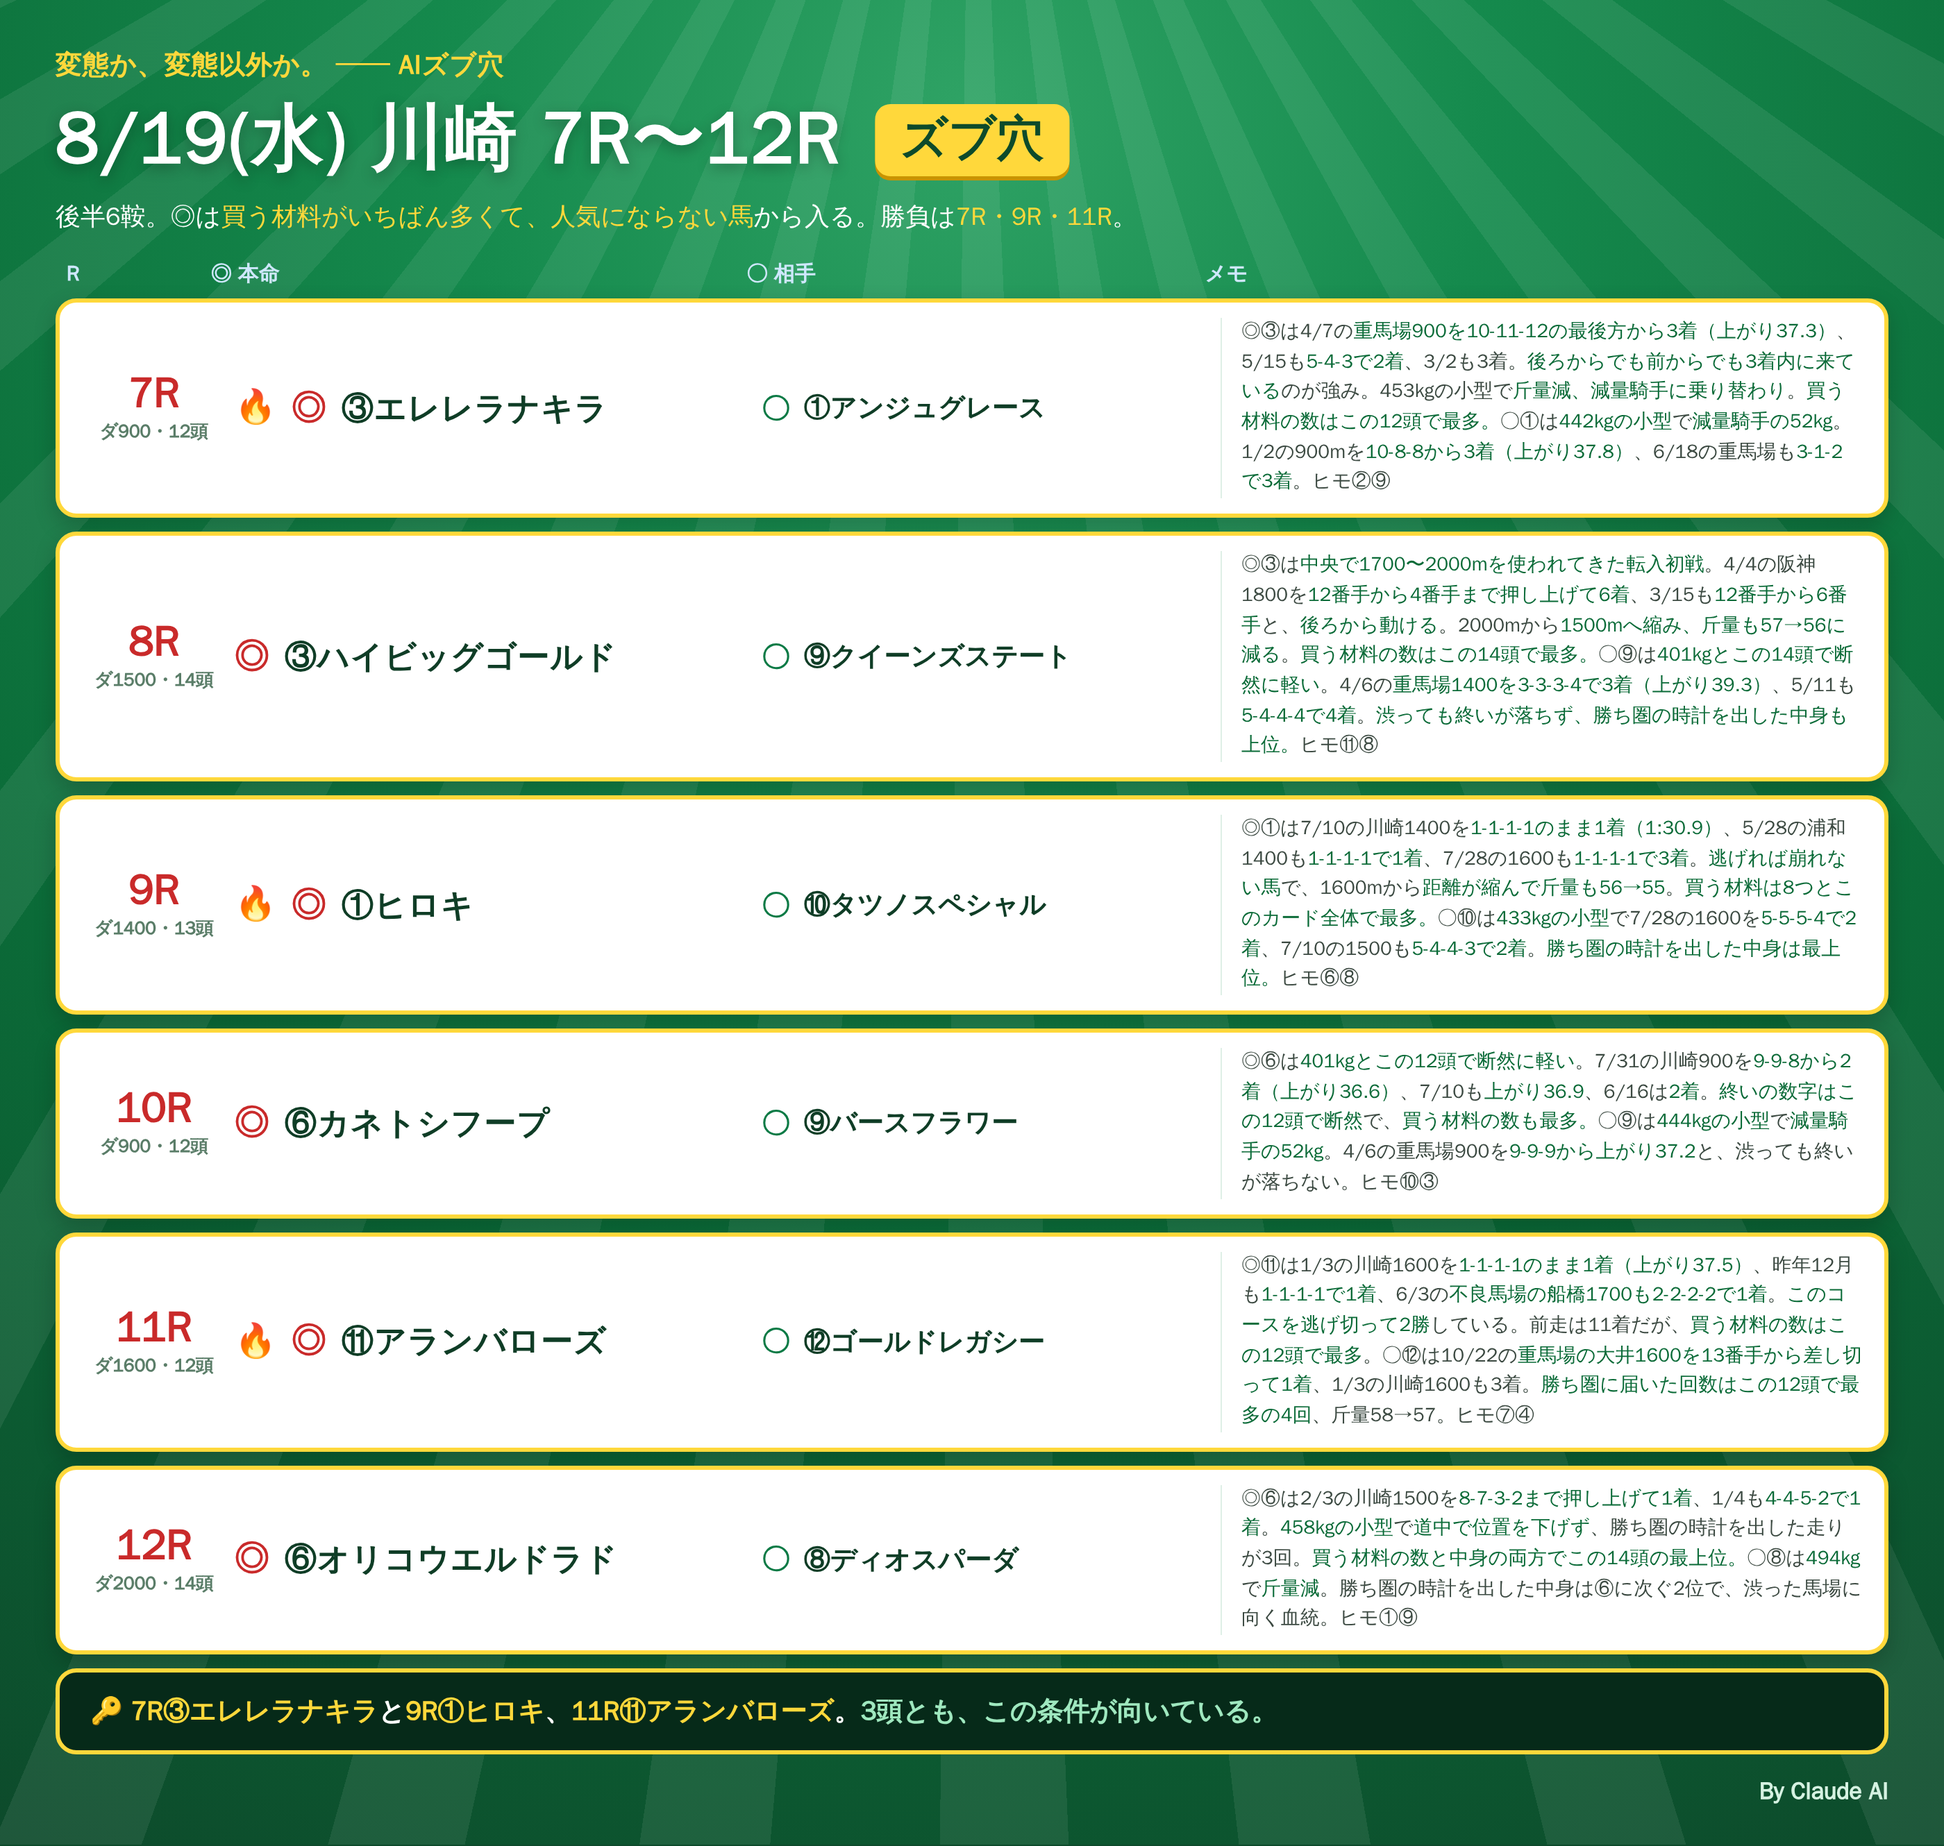
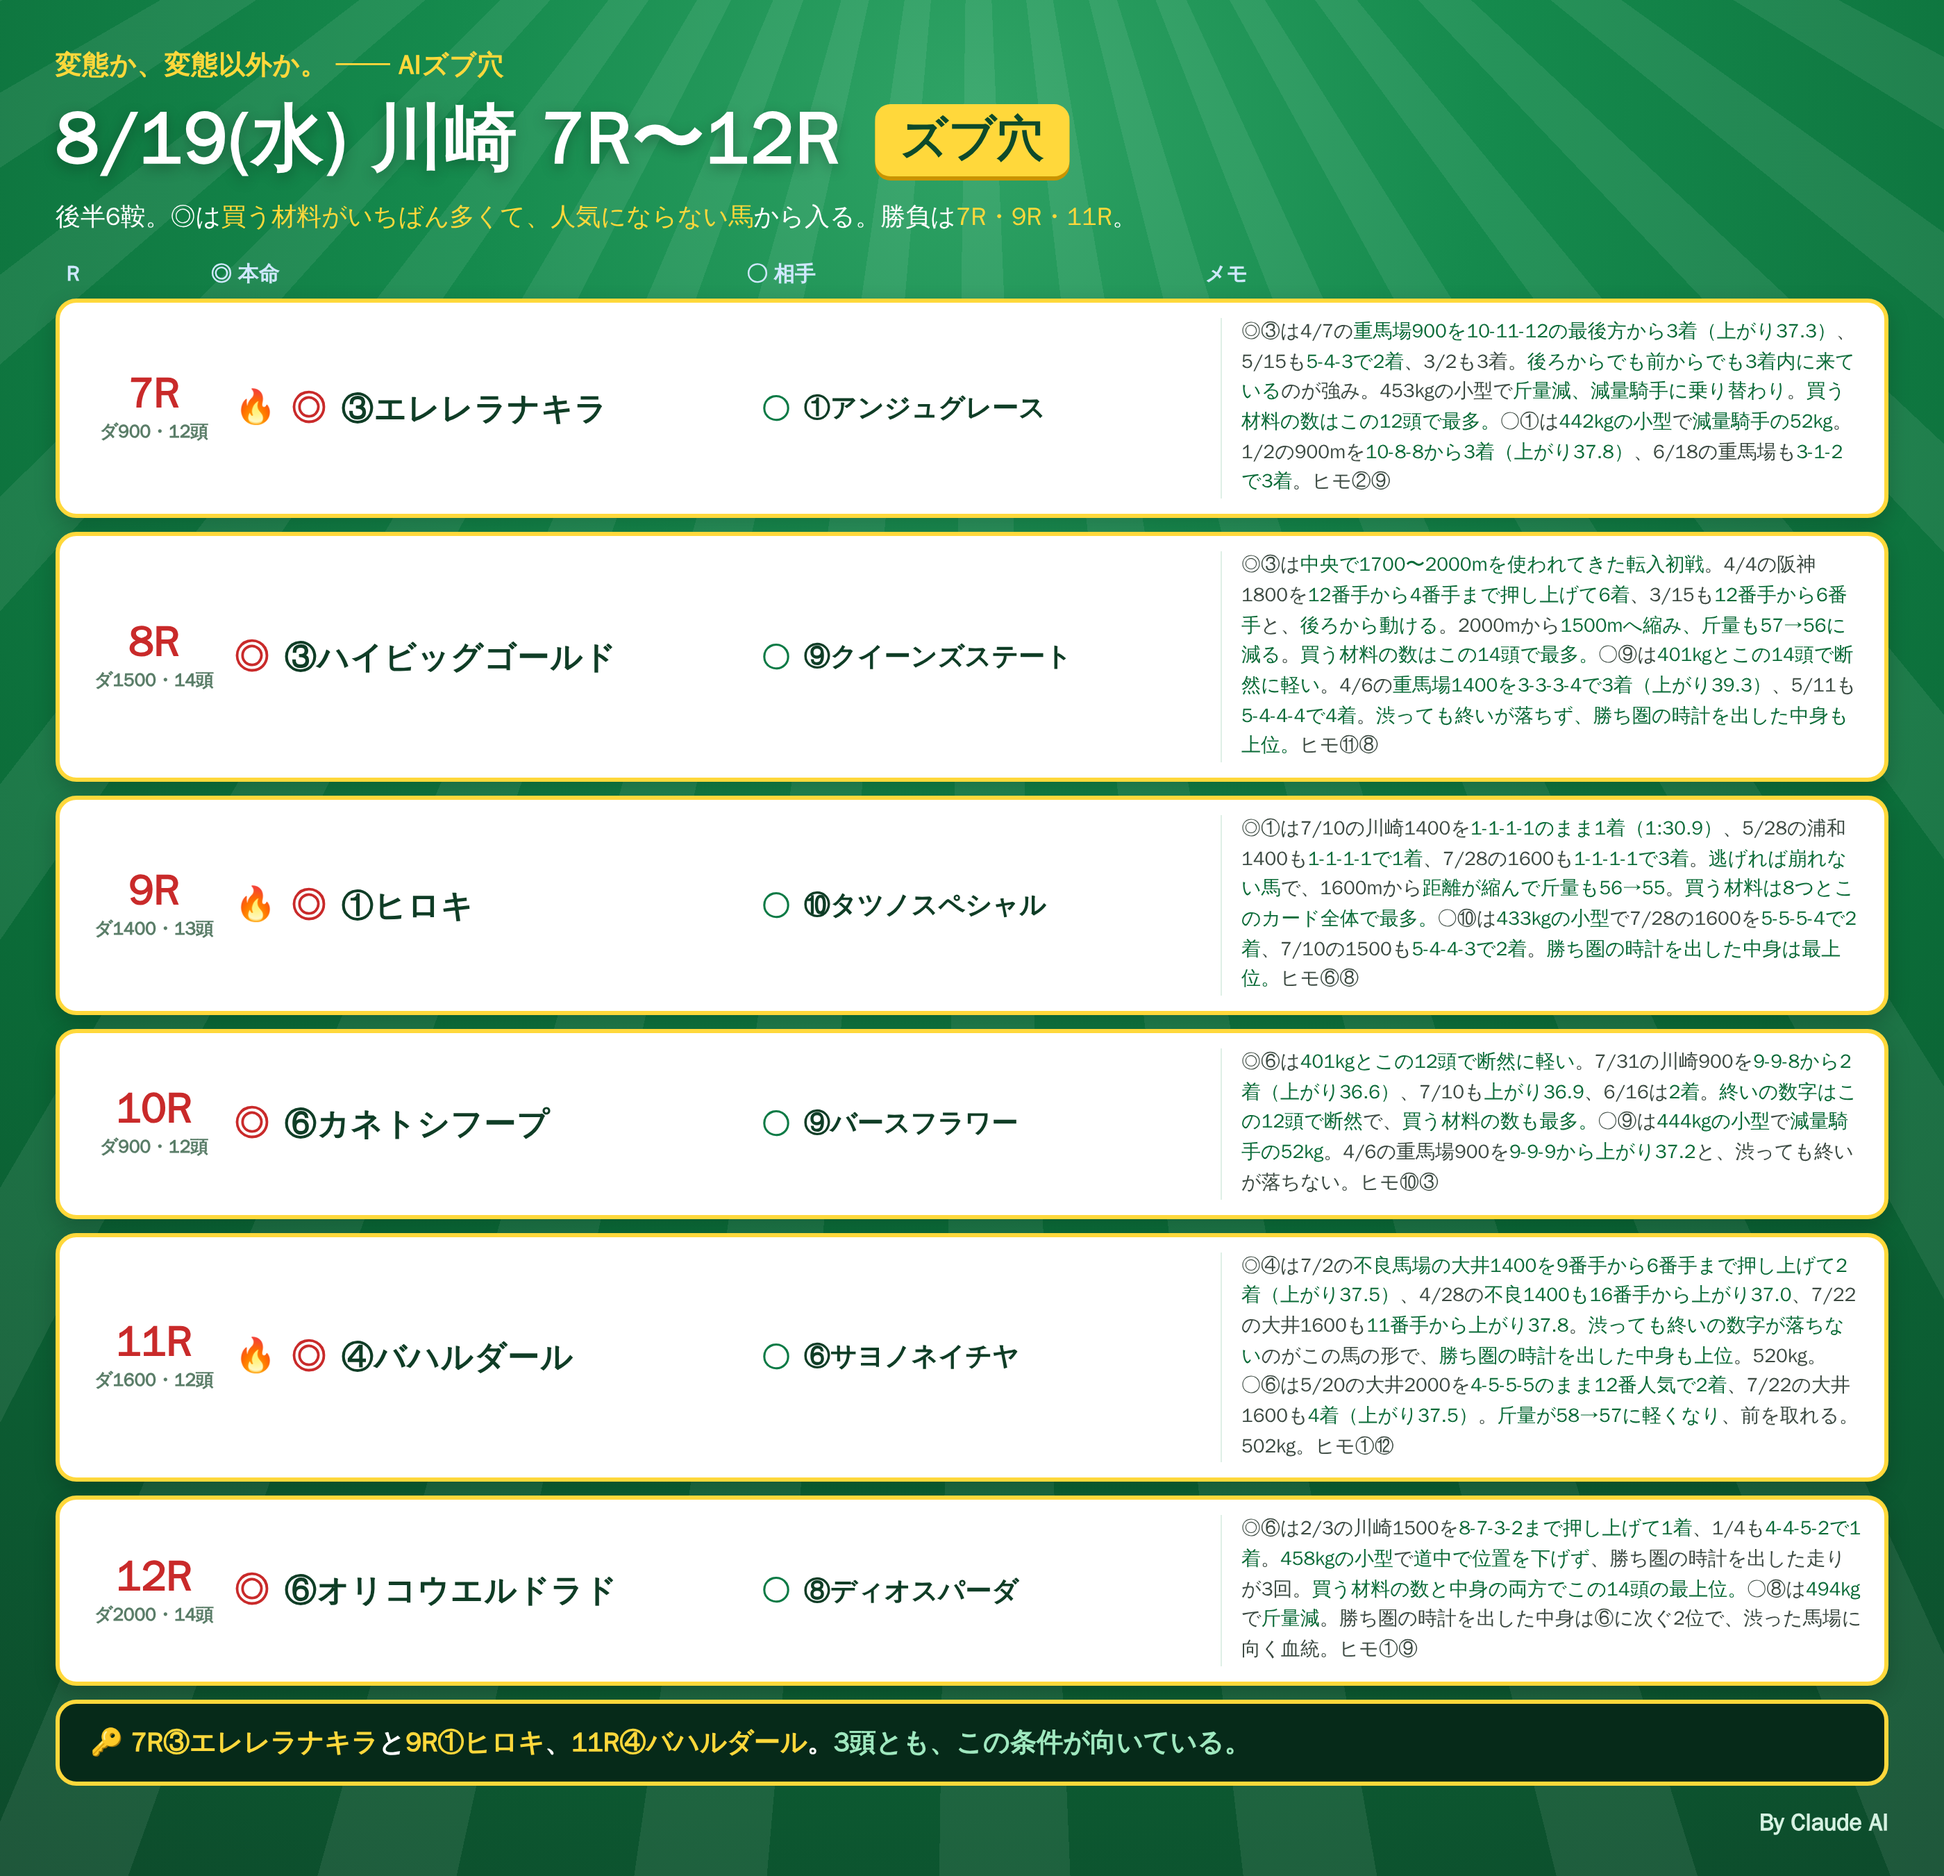
notes: 8/19 川崎 11R ◎④バハルダール ○⑥サヨノネイチヤ に変更（両方式）
Claude-Session: https://claude.ai/code/session_01RoHscZkr96FNaxQWvUqgEw

diff --git a/notes/live/2026-08-19/kawasaki_7_12.html b/notes/live/2026-08-19/kawasaki_7_12.html
@@ -81,9 +81,9 @@
 
   <div class="row">
     <div class="rN"><div class="n">11R</div><div class="d">ダ1600・12頭</div></div>
-    <div class="hm"><span class="fire">🔥</span><span class="mk">◎</span><span class="nm">①ヴィクトゥーラ</span></div>
-    <div class="at"><span class="mk2">○</span><span class="nm2">⑫ゴールドレガシー</span></div>
-    <div class="memo"><b class='r'>ハナを主張しうる馬が5頭。</b>重賞で前が5頭競れば<b>間違いなく流れる</b>ので、<b>浮くのは中団から後ろ。</b>◎①は前走7/29の川崎1600を<b>9番手から4角先頭まで押し上げて5着</b>、2/12の船橋1600は<b>13番手から2着（上がり37.8）</b>、3/10も2着。<b>勝ち圏の時計を出した中身はこの12頭で最高値</b>で、<b>斤量が57→56に軽くなる</b>。483kg。○⑫は10/22の<b>重馬場の大井1600を13番手から差し切って1着</b>、1/3の川崎1600も3着。<b>勝ち圏に届いた回数はこの12頭で最多の4回</b>、斤量58→57。ヒモ⑦④</div>
+    <div class="hm"><span class="fire">🔥</span><span class="mk">◎</span><span class="nm">④バハルダール</span></div>
+    <div class="at"><span class="mk2">○</span><span class="nm2">⑥サヨノネイチヤ</span></div>
+    <div class="memo"><b class='r'>ハナを主張しうる馬が5頭。</b>重賞で前が5頭競れば<b>間違いなく流れる</b>ので、<b>浮くのは後ろから終いを使える馬。</b>◎④は7/2の<b>不良馬場の大井1400を9番手から6番手まで押し上げて2着（上がり37.5）</b>、4/28の<b>不良1400も16番手から上がり37.0</b>、7/22の大井1600も<b>11番手から上がり37.8</b>。<b>渋っても終いの数字が落ちず、最後方からでも脚を使える。</b>520kg。○⑥は5/20の大井2000を<b>4-5-5-5のまま12番人気で2着</b>、7/22の大井1600も<b>4着（上がり37.5）</b>。<b>勝ち圏の時計を出した中身はこの12頭で上位</b>で、<b>斤量が58→57に軽くなる</b>。502kg。ヒモ①⑫</div>
   </div>
 
   <div class="row">
@@ -93,7 +93,7 @@
     <div class="memo"><b class='r'>ハナを主張しうる馬が5頭。</b>2000mで前が5頭競れば消耗するので、<b>浮くのは中団で我慢できる馬。</b>◎⑥は2/3の川崎1500を<b>8-7-3-2まで押し上げて1着</b>、1/4も<b>4-4-5-2で1着</b>。<b>458kgの小型</b>で<b>道中で位置を下げず</b>、勝ち圏の時計を出した走りが3回。3歳でこの相手なら伸びしろもある。○⑤は1/2の川崎2000を<b>4-4-5-5のまま1着</b>、3/2も<b>4角2番手まで押し上げて2着</b>、2/6も3着。<b>この距離の中身はこの14頭で最高値。</b>ヒモ⑩⑨</div>
   </div>
 
-  <div class="foot">🔑 <span class="y">7R③エレレラナキラ</span>と<span class="y">9R⑩タツノスペシャル</span>、<span class="y">11R①ヴィクトゥーラ</span>。<span class="c">7Rは12頭中8頭が前を主張する、今開催で最も極端な消耗戦。</span></div>
+  <div class="foot">🔑 <span class="y">7R③エレレラナキラ</span>と<span class="y">9R⑩タツノスペシャル</span>、<span class="y">11R④バハルダール</span>。<span class="c">7Rは12頭中8頭が前を主張する、今開催で最も極端な消耗戦。</span></div>
   <div class="sig">By Claude AI</div>
 </div></div>
 </body></html>

diff --git a/notes/live/2026-08-19/kawasaki_7_12_classic.html b/notes/live/2026-08-19/kawasaki_7_12_classic.html
@@ -82,9 +82,9 @@
 
   <div class="row">
     <div class="rN"><div class="n">11R</div><div class="d">ダ1600・12頭</div></div>
-    <div class="hm"><span class="fire">🔥</span><span class="mk">◎</span><span class="nm">⑪アランバローズ</span></div>
-    <div class="at"><span class="mk2">○</span><span class="nm2">⑫ゴールドレガシー</span></div>
-    <div class="memo">◎⑪は1/3の川崎1600を<b>1-1-1-1のまま1着（上がり37.5）</b>、昨年12月も<b>1-1-1-1で1着</b>、6/3の<b>不良馬場の船橋1700も2-2-2-2で1着</b>。<b>このコースを逃げ切って2勝</b>している。前走は11着だが、<b>買う材料の数はこの12頭で最多</b>。○⑫は10/22の<b>重馬場の大井1600を13番手から差し切って1着</b>、1/3の川崎1600も3着。<b>勝ち圏に届いた回数はこの12頭で最多の4回</b>、斤量58→57。ヒモ⑦④</div>
+    <div class="hm"><span class="fire">🔥</span><span class="mk">◎</span><span class="nm">④バハルダール</span></div>
+    <div class="at"><span class="mk2">○</span><span class="nm2">⑥サヨノネイチヤ</span></div>
+    <div class="memo">◎④は7/2の<b>不良馬場の大井1400を9番手から6番手まで押し上げて2着（上がり37.5）</b>、4/28の<b>不良1400も16番手から上がり37.0</b>、7/22の大井1600も<b>11番手から上がり37.8</b>。<b>渋っても終いの数字が落ちない</b>のがこの馬の形で、<b>勝ち圏の時計を出した中身も上位</b>。520kg。○⑥は5/20の大井2000を<b>4-5-5-5のまま12番人気で2着</b>、7/22の大井1600も<b>4着（上がり37.5）</b>。<b>斤量が58→57に軽くなり</b>、前を取れる。502kg。ヒモ①⑫</div>
   </div>
 
   <div class="row">
@@ -94,7 +94,7 @@
     <div class="memo">◎⑥は2/3の川崎1500を<b>8-7-3-2まで押し上げて1着</b>、1/4も<b>4-4-5-2で1着</b>。<b>458kgの小型</b>で<b>道中で位置を下げず</b>、勝ち圏の時計を出した走りが3回。<b>買う材料の数と中身の両方でこの14頭の最上位。</b>○⑧は<b>494kg</b>で<b>斤量減</b>。勝ち圏の時計を出した中身は⑥に次ぐ2位で、渋った馬場に向く血統。ヒモ①⑨</div>
   </div>
 
-  <div class="foot">🔑 <span class="y">7R③エレレラナキラ</span>と<span class="y">9R①ヒロキ</span>、<span class="y">11R⑪アランバローズ</span>。<span class="c">3頭とも、この条件が向いている。</span></div>
+  <div class="foot">🔑 <span class="y">7R③エレレラナキラ</span>と<span class="y">9R①ヒロキ</span>、<span class="y">11R④バハルダール</span>。<span class="c">3頭とも、この条件が向いている。</span></div>
   <div class="sig">By Claude AI</div>
 </div></div>
 </body></html>

diff --git a/notes/live/2026-08-19/README.md b/notes/live/2026-08-19/README.md
@@ -50,10 +50,10 @@
 | 8R ダ1500 | **⑤グアピシマ**（②取消のため差し替え） | ⑧パンツオンリー | ⑬④ | 3頭のみ→前／⑤は399=3.6本物1で前グループ最上位・414kg・斤52・前走3-3-4-3で4着 |
 | **9R ダ1400** | **⑩タツノスペシャル** | ⑥フォーマイディア | ⑧② | 6頭競る→中団／**399=6.9本物2が最高**・2走続けて中団から2着 |
 | 10R ダ900 | ⑥カネトシフープ | ⑨バースフラワー | ③⑩ | 4頭消耗→後方／**401kgで最軽量・上36.6/36.9で断然** |
-| **11R ダ1600** | **①ヴィクトゥーラ** | ⑫ゴールドレガシー | ⑦④ | 5頭競る→中団／**399=13.1でカード最高**・前走4角先頭まで押し上げ |
+| **11R ダ1600** | **④バハルダール**（本人指定） | **⑥サヨノネイチヤ**（本人指定） | ①⑫ | 本人指定。④は不良1400を9→6番手で2着(上37.5)・16番手から上37.0・520kg／⑥は大井2000を12番人気2着・斤58→57 |
 | 12R ダ2000 | ⑥オリコウエルドラド | ⑤ヘニーズネフュー | ⑩⑨ | 5頭競る→中団／399=10.5本物3・追走安・458kg |
 
-**🔑 5R③・7R③・9R⑩・11R①**
+**🔑 5R③・7R③・9R⑩・11R④**
 
 ## 検証ルール（自分への縛り）
 1. **前日にこの印で確定。オッズが出ても動かさない。**
@@ -130,7 +130,7 @@
 | 6R | 7頭(激戦) | ②ヤマニントレモロ(ハナ) | **⑩カサミラ**(先行) |
 | 8R | 3頭(楽) | ③ハイビッグゴールド(中団) | **⑤グアピシマ**(先行) |
 | 9R | 6頭(競る) | ①ヒロキ(ハナ・E8最多) | **⑩タツノスペシャル**(中団) |
-| 11R | 5頭(競る) | ⑪アランバローズ(ハナ) | **①ヴィクトゥーラ**(中団) |
+| 11R | 5頭(競る) | **両方式とも④バハルダール**（本人指定で統一・判定対象外） | ─ |
 
 ## 【変更記録】1R（本人指定 2026-08-18）
 両方式とも **◎⑪ハーバーショー ○⑥ギガントマキア ヒモ⑤③** に統一。
@@ -161,3 +161,18 @@
 ○は②が抜けたので、エッジ3の中で399が最上位の**⑨クイーンズステート（399=4.5・本物1・401kg）**に。
 
 → **8RのA/B判定は維持**（いつも通り◎③ハイビッグゴールド vs 新手順◎⑤グアピシマ）。
+
+## 【変更記録】11R（本人指定 2026-08-18）
+両方式とも **◎④バハルダール ○⑥サヨノネイチヤ ヒモ①⑫** に統一。
+→ **11Rは◎が一致したので、A/B判定の対象から外れる。判定は5レース（3R・4R・6R・8R・9R）になった。**
+
+## A/B判定対象（最終・5レース）
+| R | ハナ主張 | いつも通り◎ | 新手順◎ |
+|---|---|---|---|
+| 3R | 1頭(楽) | ②クマサンファミリー(先行) | **⑤キーセンシェイラ**(ハナ) |
+| 4R | 4頭(消耗) | ③フロレシミエント(中団) | **①マイリトルロマンス**(後方) |
+| 6R | 7頭(激戦) | ②ヤマニントレモロ(ハナ) | **⑩カサミラ**(先行) |
+| 8R | 3頭(楽) | ③ハイビッグゴールド(中団) | **⑤グアピシマ**(先行) |
+| 9R | 6頭(競る) | ①ヒロキ(ハナ・E8最多) | **⑩タツノスペシャル**(中団) |
+
+※サンプルが5レースまで減ったため、**8/20の川崎も同じ2方式で出して合算する**。
